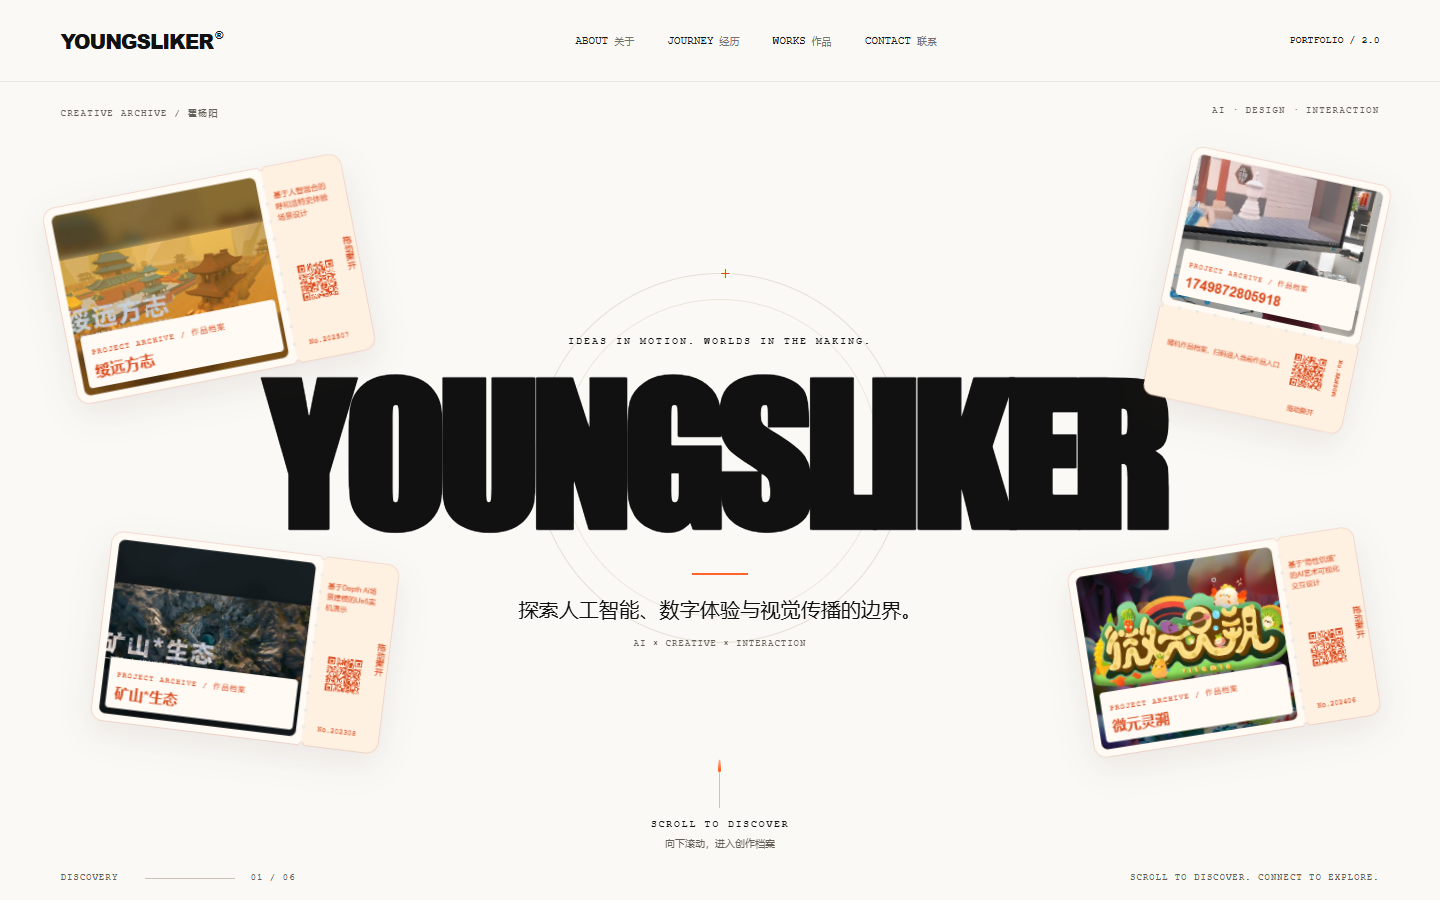
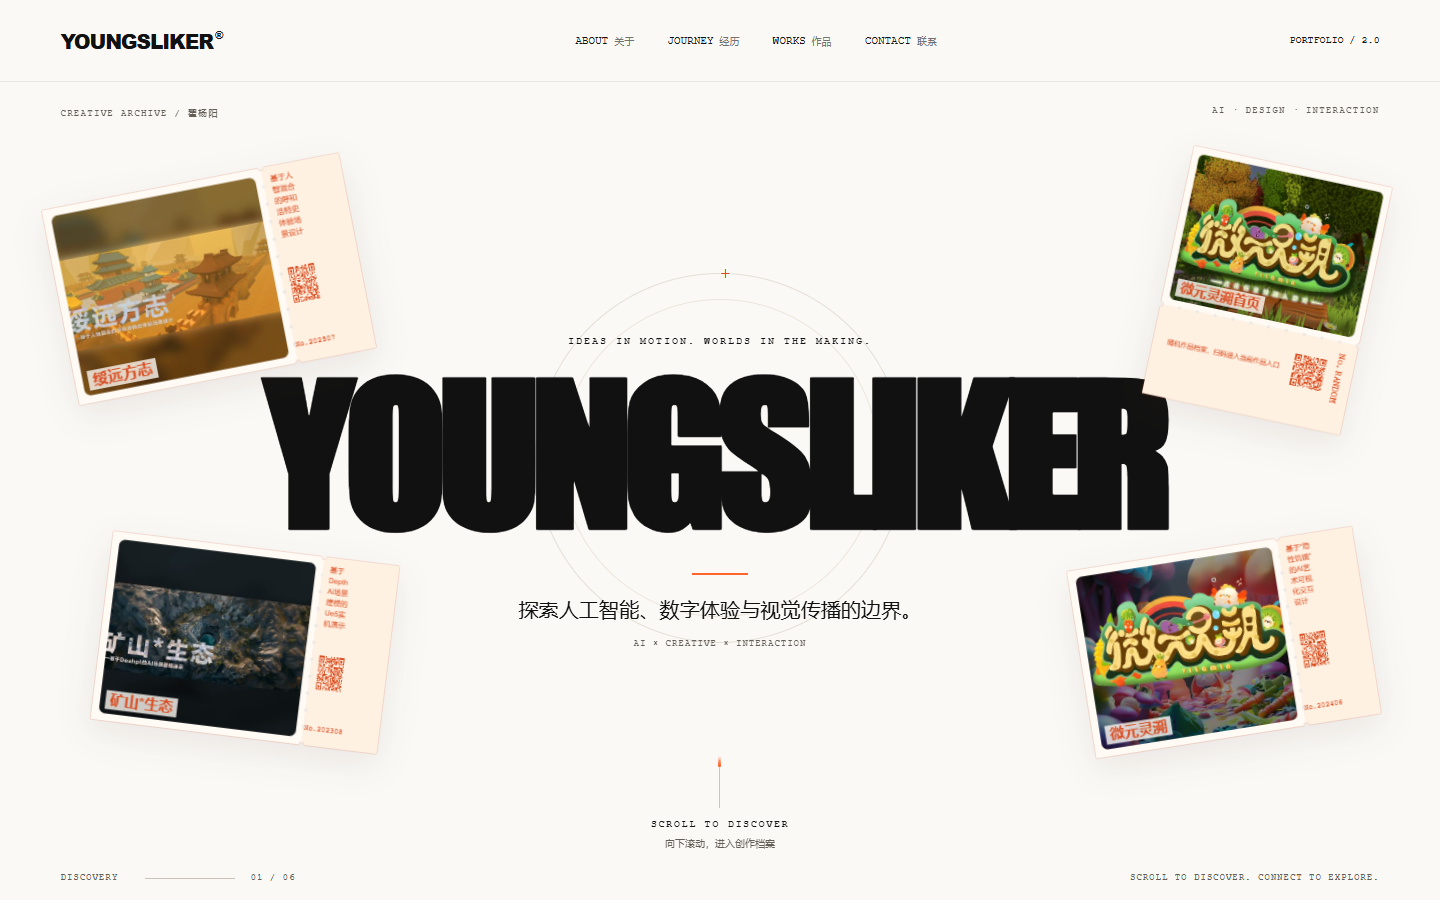
new5.6
去掉小票圆角，改成更利落的票据边缘。
删除“作品档案”文字。
删除“拖动撕开”文字。
标题底色缩小为局部浅色底条。
票号字号加大。
竖版简介限制为约三行。
二维码、简介、票号位置保持之前的分区结构。

diff --git a/New/css/artwork-ticket.css b/New/css/artwork-ticket.css
@@ -2,23 +2,19 @@
 .artwork-ticket .tear-ticket { width: 100%; }
 .artwork-ticket .tear-ticket__art { height: calc(var(--tt-body-h) - 16px); }
 .artwork-ticket .tear-ticket__scrim { background: linear-gradient(to top, #fffaf4 0%, #fffaf4 24%, #fffaf4e8 34%, #fffaf440 65%, transparent 85%); }
-.artwork-ticket__caption { position: absolute; bottom: 15px; left: 14px; right: 12px; padding: 7px 9px; border-radius: 4px; background: #fffaf4; color: #d94a1c; }
-.artwork-ticket__caption > span { font: 8px var(--mono); letter-spacing: 1.2px; }
-.artwork-ticket__caption h2 { font-size: 16px; line-height: 1.2; margin-top: 5px; overflow-wrap: anywhere; display: -webkit-box; -webkit-line-clamp: 2; -webkit-box-orient: vertical; overflow: hidden; }
+.artwork-ticket__caption { position: absolute; bottom: 12px; left: 14px; right: 12px; color: #d94a1c; }
+.artwork-ticket__caption h2 { display: inline; padding: 2px 5px; box-decoration-break: clone; -webkit-box-decoration-break: clone; background: #fffaf4cc; font-size: 16px; line-height: 1.35; overflow-wrap: anywhere; }
 .artwork-ticket__stub { height: 100%; display: grid; align-items: center; justify-items: center; padding: 7px; color: #d94a1c; text-align: center; }
-.artwork-ticket__stub strong { font: 8px var(--mono); white-space: nowrap; }
+.artwork-ticket__stub strong { font: 11px var(--mono); white-space: nowrap; }
 .artwork-ticket__description { margin: 0; font-size: 8px; line-height: 1.5; overflow-wrap: anywhere; writing-mode: horizontal-tb; }
 .artwork-ticket__qr { display: block; width: 38px; height: 38px; image-rendering: pixelated; }
-.artwork-ticket__hint { font-size: 9px; line-height: 1; writing-mode: vertical-rl; white-space: nowrap; }
-.artwork-ticket .tear-ticket[data-orientation="horizontal"] .artwork-ticket__stub { grid-template-columns: minmax(0, 1fr) 10px; grid-template-rows: 64px minmax(42px, 1fr) 20px; column-gap: 3px; row-gap: 6px; padding: 12px 5px 10px 8px; }
+.artwork-ticket .tear-ticket[data-orientation="horizontal"] .artwork-ticket__stub { grid-template-columns: minmax(0, 1fr) 40px; grid-template-rows: 64px minmax(42px, 1fr) 20px; column-gap: 3px; row-gap: 6px; padding: 12px 5px 10px 8px; }
 .artwork-ticket .tear-ticket[data-orientation="horizontal"] .artwork-ticket__description { grid-column: 1; grid-row: 1; align-self: center; text-align: left; }
 .artwork-ticket .tear-ticket[data-orientation="horizontal"] .artwork-ticket__qr { grid-column: 1; grid-row: 2; }
-.artwork-ticket .tear-ticket[data-orientation="horizontal"] .artwork-ticket__hint { grid-column: 2; grid-row: 1 / 4; align-self: center; }
 .artwork-ticket .tear-ticket[data-orientation="horizontal"] .artwork-ticket__stub strong { grid-column: 1; grid-row: 3; justify-self: center; font-size: 8px; }
 .artwork-ticket .tear-ticket[data-orientation="vertical"] .artwork-ticket__stub { grid-template-columns: minmax(0, 1fr) 42px 20px; grid-template-rows: 1fr 22px; column-gap: 4px; }
-.artwork-ticket .tear-ticket[data-orientation="vertical"] .artwork-ticket__description { grid-column: 1; grid-row: 1; text-align: left; padding: 0 5px; }
+.artwork-ticket .tear-ticket[data-orientation="vertical"] .artwork-ticket__description { grid-column: 1; grid-row: 1; text-align: left; padding: 0 5px; display: -webkit-box; -webkit-line-clamp: 3; -webkit-box-orient: vertical; overflow: hidden; }
 .artwork-ticket .tear-ticket[data-orientation="vertical"] .artwork-ticket__qr { grid-column: 2; grid-row: 1; }
 .artwork-ticket .tear-ticket[data-orientation="vertical"] .artwork-ticket__stub strong { grid-column: 3; grid-row: 1; writing-mode: vertical-rl; }
-.artwork-ticket .tear-ticket[data-orientation="vertical"] .artwork-ticket__hint { grid-column: 2; grid-row: 2; justify-self: center; writing-mode: horizontal-tb; font-size: 8px; }
 .artwork-ticket .tear-ticket__piece--stub:focus-visible .tear-ticket__paper { background: #ffe0c4; }
 .artwork-ticket .tear-ticket[data-used] .tear-ticket__content { opacity: 1; }

diff --git a/New/js/components/ArtworkTicket.tsx b/New/js/components/ArtworkTicket.tsx
@@ -13,7 +13,7 @@ export function ArtworkTicket({ title, description, date, image, qrValue, width,
     <TearTicket image={image} imageAlt={title + '作品图像'}
       width={width} height={height} orientation={vertical ? 'vertical' : 'horizontal'}
       stubSize={vertical ? 108 : 84} scrim={false} imageRadius={7}
-      radius={12} holes={10} holeSize={4} notch={3} roughness={0}
+      radius={0} holes={10} holeSize={4} notch={3} roughness={0}
       tearAngle={30} stretch={20} resistance={.45} rotate={0}
       tilt tiltMax={5} tiltReach={180} parallax={4} perspective={1000}
       background="#fffaf4" stubBackground="#fff1e2" color="#d94a1c"
@@ -23,9 +23,8 @@ export function ArtworkTicket({ title, description, date, image, qrValue, width,
         <p className="artwork-ticket__description">{description}</p>
         {qr && <img className="artwork-ticket__qr" src={qr} alt="扫描进入作品" />}
         <strong>No.{date}</strong>
-        <span className="artwork-ticket__hint">拖动撕开</span>
       </div>}>
-      <div className="artwork-ticket__caption"><span>PROJECT ARCHIVE / 作品档案</span><h2>{title}</h2></div>
+      <div className="artwork-ticket__caption"><h2>{title}</h2></div>
     </TearTicket>
   </div>;
 }
